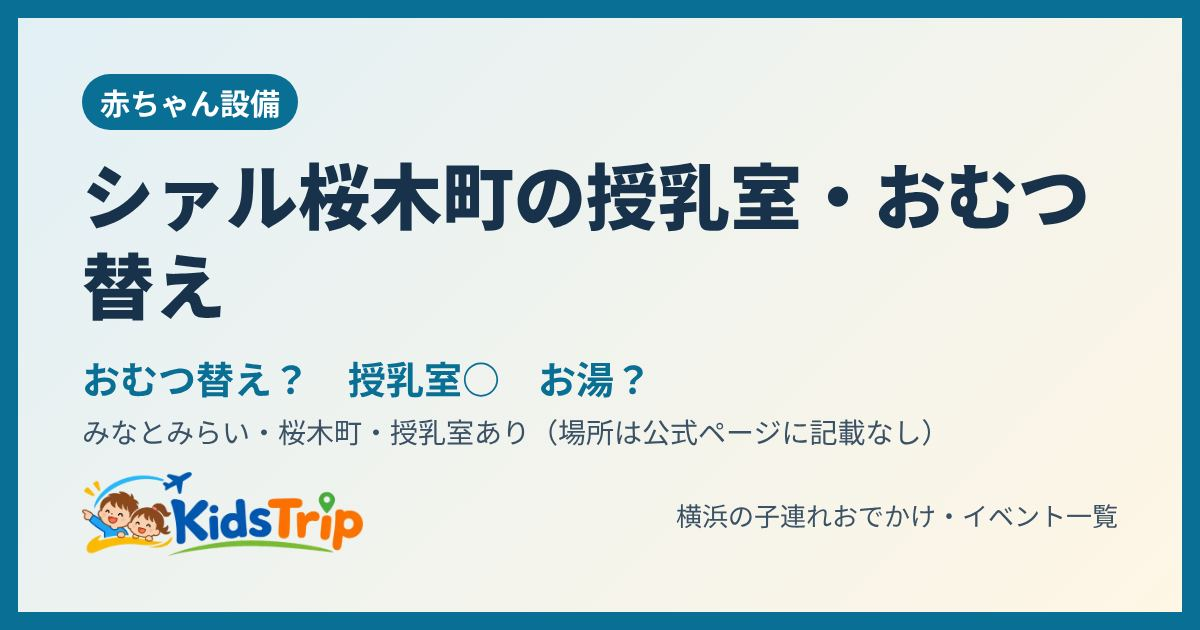
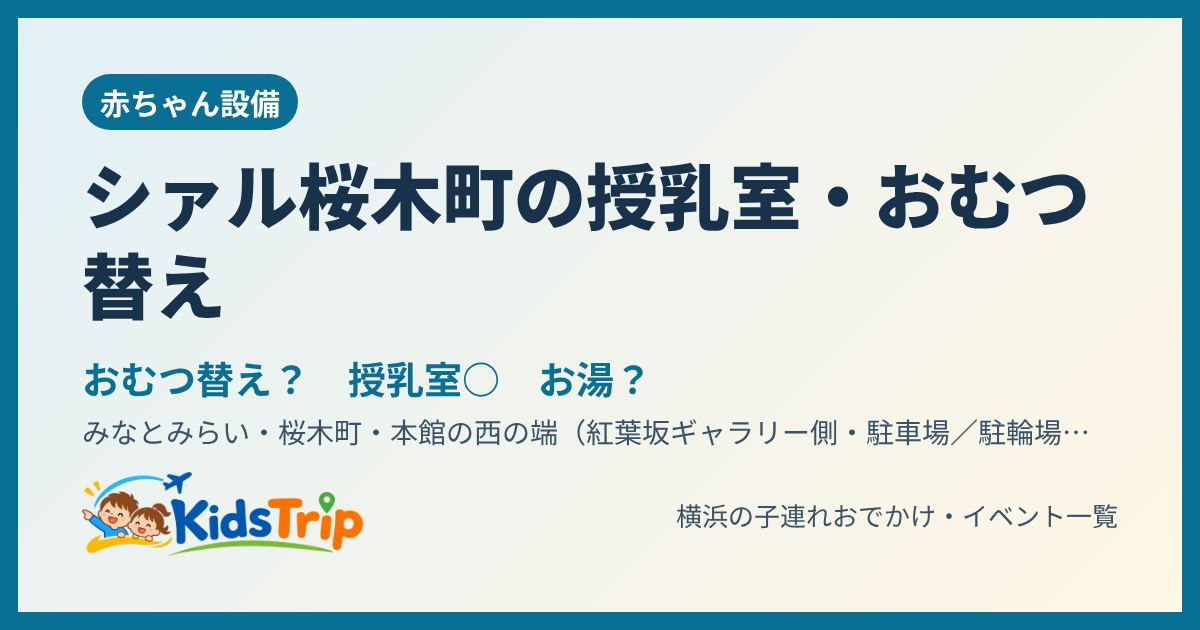
シァル桜木町：授乳室の場所を公式フロアガイドの画面から追加（利用者の画面）
Claude-Session: https://claude.ai/code/session_014AtJ2g3ghW1boxsW7syVwL

Changed region(s): [[0.3083, 0.6635, 0.8942, 0.7238]]

diff --git a/spot/1icjes/index.html b/spot/1icjes/index.html
@@ -4,12 +4,12 @@
 <meta charset="utf-8">
 <meta name="viewport" content="width=device-width, initial-scale=1">
 <title>シァル桜木町の授乳室・おむつ替え・お湯｜KidsTrip</title>
-<meta name="description" content="シァル桜木町（みなとみらい・桜木町）の授乳室・おむつ替えの場所：授乳室あり（場所は公式ページに記載なし）。授乳室あり。">
+<meta name="description" content="シァル桜木町（みなとみらい・桜木町）の授乳室・おむつ替えの場所：本館の西の端（紅葉坂ギャラリー側・駐車場／駐輪場の方）、トイレ・多目的トイレの並びに授乳室（公式フロアガイドの全体図）。授乳室あり。">
 <link rel="canonical" href="https://kidstrip.jp/spot/1icjes/">
 <meta property="og:type" content="article">
 <meta property="og:site_name" content="KidsTrip">
 <meta property="og:title" content="シァル桜木町の授乳室・おむつ替え・お湯｜KidsTrip">
-<meta property="og:description" content="シァル桜木町（みなとみらい・桜木町）の授乳室・おむつ替えの場所：授乳室あり（場所は公式ページに記載なし）。授乳室あり。">
+<meta property="og:description" content="シァル桜木町（みなとみらい・桜木町）の授乳室・おむつ替えの場所：本館の西の端（紅葉坂ギャラリー側・駐車場／駐輪場の方）、トイレ・多目的トイレの並びに授乳室（公式フロアガイドの全体図）。授乳室あり。">
 <meta property="og:url" content="https://kidstrip.jp/spot/1icjes/">
 <meta property="og:image" content="https://kidstrip.jp/og/spot-1icjes.jpg">
 <meta property="og:image:width" content="1200">
@@ -21,7 +21,7 @@
 <link rel="icon" href="../../img/favicon.png">
 <link rel="apple-touch-icon" href="../../img/apple-touch-icon.png">
 <script type="application/ld+json">{"@context": "https://schema.org", "@type": "BreadcrumbList", "itemListElement": [{"@type": "ListItem", "position": 1, "name": "トップ", "item": "https://kidstrip.jp/"}, {"@type": "ListItem", "position": 2, "name": "ごはん・おむつ", "item": "https://kidstrip.jp/#foodall"}, {"@type": "ListItem", "position": 3, "name": "シァル桜木町"}]}</script>
-<script type="application/ld+json">{"@context": "https://schema.org", "@type": "Place", "name": "シァル桜木町", "description": "シァル桜木町（みなとみらい・桜木町）の授乳室・おむつ替えの場所：授乳室あり（場所は公式ページに記載なし）。授乳室あり。", "url": "https://kidstrip.jp/spot/1icjes/", "image": ["https://kidstrip.jp/og/spot-1icjes.jpg"], "address": {"@type": "PostalAddress", "addressLocality": "横浜市", "addressRegion": "神奈川県", "addressCountry": "JP"}, "amenityFeature": [{"@type": "LocationFeatureSpecification", "name": "授乳室", "value": true}], "publicAccess": true, "sameAs": "https://www.jryscc.co.jp/cial/sakuragicho/service/", "hasMap": "https://www.google.com/maps/search/?api=1&query=シァル桜木町"}</script>
+<script type="application/ld+json">{"@context": "https://schema.org", "@type": "Place", "name": "シァル桜木町", "description": "シァル桜木町（みなとみらい・桜木町）の授乳室・おむつ替えの場所：本館の西の端（紅葉坂ギャラリー側・駐車場／駐輪場の方）、トイレ・多目的トイレの並びに授乳室（公式フロアガイドの全体図）。授乳室あり。", "url": "https://kidstrip.jp/spot/1icjes/", "image": ["https://kidstrip.jp/og/spot-1icjes.jpg"], "address": {"@type": "PostalAddress", "addressLocality": "横浜市", "addressRegion": "神奈川県", "addressCountry": "JP"}, "amenityFeature": [{"@type": "LocationFeatureSpecification", "name": "授乳室", "value": true}], "publicAccess": true, "sameAs": "https://www.jryscc.co.jp/cial/sakuragicho/service/", "hasMap": "https://www.google.com/maps/search/?api=1&query=シァル桜木町"}</script>
 <style>
 .gkcmp th[scope=row]{white-space:nowrap}.gkcmp td{font-size:.92em}
 .gk{list-style:none;padding:0}.gk li{border:1px solid #e5e5e5;border-radius:10px;padding:10px 12px;margin:8px 0;line-height:1.7}.gk h3{margin:0 0 2px;font-size:1.02em}
@@ -52,10 +52,10 @@ footer{margin:28px 0 8px;font-size:12px;color:var(--muted)}
 <h1>シァル桜木町（桜木町駅直結）の授乳室・おむつ替え・お湯</h1>
 <table class="bm"><thead><tr><th>場所</th><th>おむつ替え</th><th>授乳室</th><th>お湯</th><th>レンジ</th></tr></thead><tbody><tr><th>シァル桜木町</th><td class="u">？</td><td class="y">○</td><td class="u">？</td><td class="u">？</td></tr></tbody></table>
 <p class="legend">○ あり　× なし　？ 調べた範囲で確認できず</p>
-<table class="info"><tr><th>場所</th><td>授乳室あり（場所は公式ページに記載なし）</td></tr><tr><th>エリア</th><td>みなとみらい・桜木町</td></tr></table>
+<table class="info"><tr><th>場所</th><td>本館の西の端（紅葉坂ギャラリー側・駐車場／駐輪場の方）、トイレ・多目的トイレの並びに授乳室（公式フロアガイドの全体図）</td></tr><tr><th>エリア</th><td>みなとみらい・桜木町</td></tr></table>
 <ul class="chips"><li>ベビーカーで入れるお店が多い（川村屋・スープストックトーキョーなど）</li></ul>
-<p class="sum">JR桜木町駅直結の駅ビル。公式の館内案内に授乳室・多目的トイレがある（何階かは記載なし）。お湯・電子レンジ・おむつ替えの場所は公式ページに記載なし。ショッピング10:00〜21:00・レストラン11:00〜23:00。</p>
-<p class="small">出典：シァル桜木町 公式（営業時間等・フロアガイド・2026年11月19日確認）</p>
+<p class="sum">JR桜木町駅直結の駅ビル。公式フロアガイドの全体図では、授乳室は本館の西の端（紅葉坂ギャラリー側・駐車場／駐輪場の方）にあり、トイレ・多目的トイレと並んでいる。お湯・電子レンジ・おむつ替えの場所は公式ページに記載なし。ショッピング10:00〜21:00・レストラン11:00〜23:00。</p>
+<p class="small">出典：シァル桜木町 公式（営業時間等・フロアガイド・2026年11月19日確認）。授乳室の場所は利用者が送った公式フロアガイドの画面（2026年11月）</p>
 <div class="btns"><a class="btn main" data-act="official" href="https://www.jryscc.co.jp/cial/sakuragicho/service/" target="_blank" rel="noopener">公式ページで確認</a>
 <a class="btn" href="https://www.google.com/maps/search/?api=1&amp;query=シァル桜木町" target="_blank" rel="noopener">地図で見る</a>
 <button type="button" class="btn" data-share="1">🔗 リンクを送る・コピー</button></div>

diff --git a/js/data.js b/js/data.js
@@ -453,8 +453,8 @@ const BABY = {
       note:"西区の地域子育て支援拠点の中にある設備。授乳コーナーはカーテンで仕切れ、ミルク用のお湯は職員に頼めば出してもらえる。電子レンジは公式ページに記載なし。使ったおむつは持ち帰り。使うには利用登録が必要（無料）。", url:"https://smile-port.jp/language/", src:"スマイル・ポート 公式（2026年11月20日確認）" },
     { n:"横浜市役所（桜木町駅前）", where:"1F 南側（展示スペースB付近）の授乳室・ベビー休憩室（毎日7:00〜23:00）／3F 北側（市民ラウンジ付近）（開庁日8:00〜20:00・休庁日10:00〜20:00）／1〜3Fの男女トイレにもおむつ交換台", d:true, f:true, w:true, ex:["鍵のかかる授乳の個室（1F 2室・3F 1室）","調乳用温水器・お湯の出るシンク","おむつ専用のごみ箱"],
       note:"子どもと一緒ならだれでも使える（パパも可）。1F南側はおむつ交換台3台・授乳の個室2室、3F北側はおむつ交換台1台・個室1室。どちらも調乳用温水器とお湯の出るシンクがある。1Fは土日祝も朝7時〜夜23時まで使えるので、みなとみらい・桜木町に出かけたときの休憩場所に。電子レンジは公式ページに記載なし。", url:"https://www.city.yokohama.lg.jp/city-info/yokohamashi/shichosha/siyakushotorikumi.html", src:"横浜市 公式（市庁舎の授乳室・ベビー休憩室・2026年11月19日確認）" },
-    { n:"シァル桜木町（桜木町駅直結）", where:"授乳室あり（場所は公式ページに記載なし）", d:null, f:true, w:null, ex:["ベビーカーで入れるお店が多い（川村屋・スープストックトーキョーなど）"],
-      note:"JR桜木町駅直結の駅ビル。公式の館内案内に授乳室・多目的トイレがある（何階かは記載なし）。お湯・電子レンジ・おむつ替えの場所は公式ページに記載なし。ショッピング10:00〜21:00・レストラン11:00〜23:00。", url:"https://www.jryscc.co.jp/cial/sakuragicho/service/", src:"シァル桜木町 公式（営業時間等・フロアガイド・2026年11月19日確認）" },
+    { n:"シァル桜木町（桜木町駅直結）", where:"本館の西の端（紅葉坂ギャラリー側・駐車場／駐輪場の方）、トイレ・多目的トイレの並びに授乳室（公式フロアガイドの全体図）", d:null, f:true, w:null, ex:["ベビーカーで入れるお店が多い（川村屋・スープストックトーキョーなど）"],
+      note:"JR桜木町駅直結の駅ビル。公式フロアガイドの全体図では、授乳室は本館の西の端（紅葉坂ギャラリー側・駐車場／駐輪場の方）にあり、トイレ・多目的トイレと並んでいる。お湯・電子レンジ・おむつ替えの場所は公式ページに記載なし。ショッピング10:00〜21:00・レストラン11:00〜23:00。", url:"https://www.jryscc.co.jp/cial/sakuragicho/service/", src:"シァル桜木町 公式（営業時間等・フロアガイド・2026年11月19日確認）。授乳室の場所は利用者が送った公式フロアガイドの画面（2026年11月）" },
     { n:"横浜美術館", where:"おむつ交換台あり／授乳室あり", d:true, f:true, w:true, ex:["ベビーカー貸出（有料の場合あり）","乳幼児用いす付きの個室","ベビーカー置き場あり"],
       note:"調乳用のお湯あり。", url:"https://www.welcome.city.yokohama.jp/accessibility/spot/details.php?sid=135", src:"横浜市観光情報サイト バリアフリー情報（2025年8月更新）" },
     { n:"横浜みなとみらい万葉倶楽部", where:"おむつ交換台あり／授乳室なし", d:true, f:false, w:null, ex:[],

diff --git a/index.html b/index.html
@@ -754,7 +754,7 @@ section[id], div[id="events"] { scroll-margin-top: 56px; }
   </footer>
 </div>
 
-<script src="js/data.js?v=519f61a375" defer></script>
+<script src="js/data.js?v=04b3111037" defer></script>
 <script src="js/app.js?v=1e28e73a7b" defer></script>
 </body>
 </html>

diff --git a/tools/runs.md b/tools/runs.md
@@ -50,3 +50,4 @@
 | 2026-11-22 | 毎朝の更新 | 04:46〜09:40 | 25 | 期間を11/22〜1/22に。終わった18件を外し、各イベントの過ぎた日付を削除。ズーラシアのオオアリクイ双子公開11/22を中止（気温が低い予報）に。11/22・23の主なイベントを公式で確認（11/24〜29の分と新規探しは使用上限で途中終了） |
 | 2026-11-22 | 利用者との作業 | 09:48〜09:48 | 0 | 日別シートの見方を確認（「うちブラウザ情報なし」が11/20から0なのは正常、「うち検索から」はページ表示の回数）。変更なし |
 | 2026-11-22 | 利用者との作業 | 09:52〜09:52 | 2 | 記録のスクリプト：日別シートの「うち検索から」を「うち検索から（ページ表示）」と「検索から来た人」に分けた（利用者が貼り直して反映） |
+| 2026-11-22 | 利用者との作業 | 10:01〜10:01 | 2 | シァル桜木町の授乳室の場所（本館西の端・紅葉坂ギャラリー側）を利用者が送った公式フロアガイドの画面から追加 |
